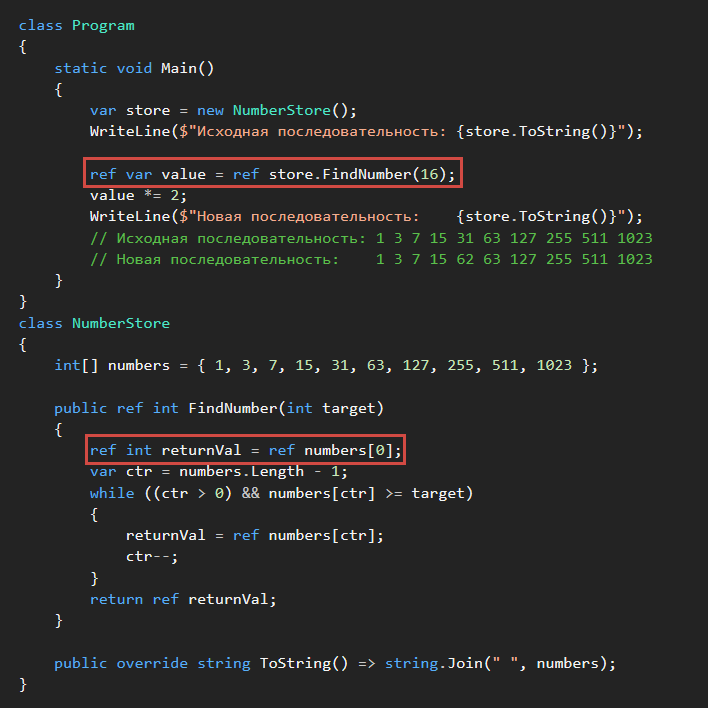
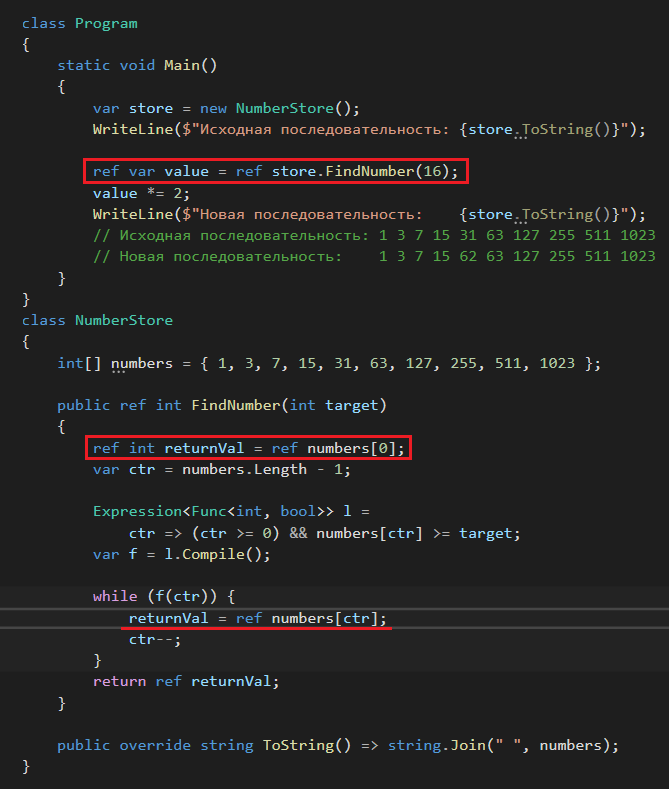
C_Sharp

diff --git a/Ref returns/Ref_returns2.cs b/Ref returns/Ref_returns2.cs
@@ -1,4 +1,6 @@
-using static System.Console;
+using System;
+using System.Linq.Expressions;
+using static System.Console;
 
 class Program
 {
@@ -22,8 +24,12 @@ class NumberStore
     {
         ref int returnVal = ref numbers[0];
         var ctr = numbers.Length - 1;
-        while ((ctr > 0) && numbers[ctr] >= target)
-        {
+
+        Expression<Func<int, bool>> l =
+            ctr => (ctr >= 0) && numbers[ctr] >= target;
+        var f = l.Compile();
+
+        while (f(ctr)) {
             returnVal = ref numbers[ctr];
             ctr--;
         }
